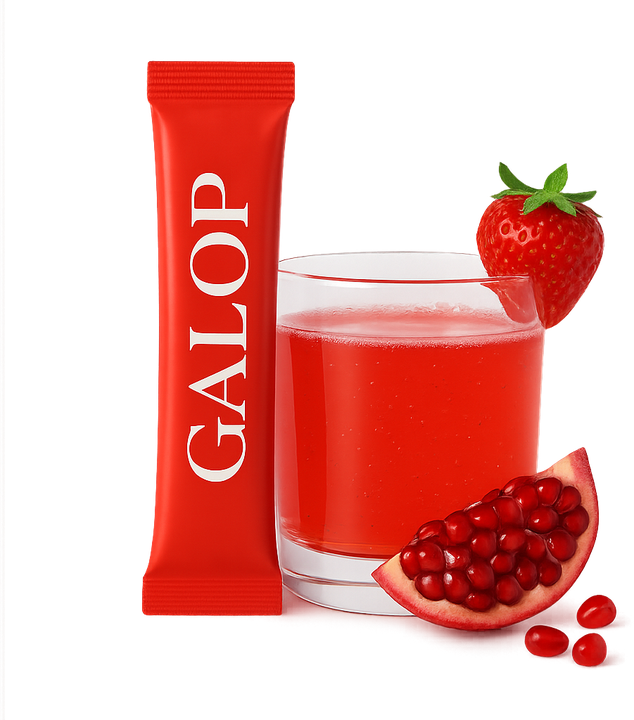
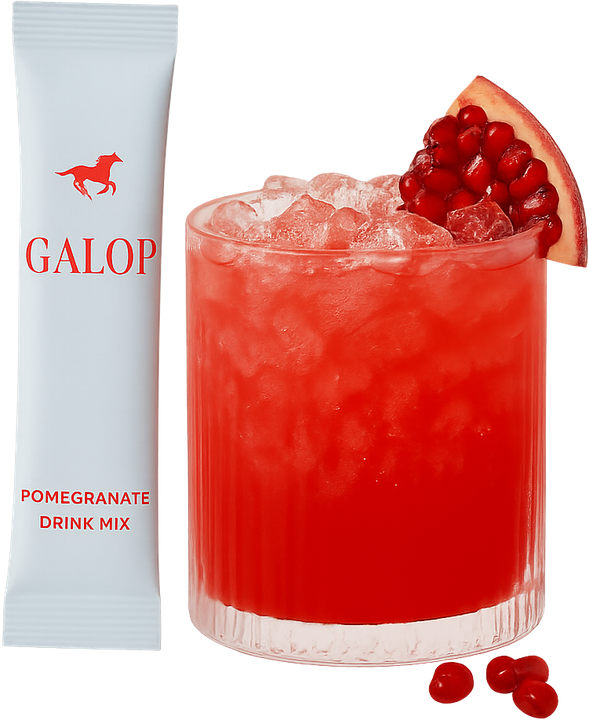
Switch hero to blue-pack pomegranate concept; update founder photo
- Hero image: pale-blue GALOP stick pack (red horse + wordmark,
  'Pomegranate Drink Mix') beside an iced pomegranate drink — no strawberry
- Flavor line: 'Doctor-formulated · Sugar-free · Pomegranate'
- Founder photo: Sydney toasting with the pink drink

diff --git a/src/app/App.tsx b/src/app/App.tsx
@@ -149,7 +149,7 @@ export default function App() {
                }}>
             <img
               src={drinkMixImage}
-              alt="GALOP drink mix stick pack beside a glass of strawberry pomegranate drink"
+              alt="GALOP pomegranate drink mix stick pack beside an iced glass of pomegranate drink"
               className="w-44 sm:w-60 h-auto object-contain"
               style={{
                 filter: 'drop-shadow(0 8px 16px rgba(226, 30, 38, 0.25))',
@@ -187,7 +187,7 @@ export default function App() {
                textTransform: 'uppercase',
                letterSpacing: '0.22em'
              }}>
-            Doctor-formulated <span style={{ margin: '0 0.6em', opacity: 0.7 }}>·</span> Sugar-free <span style={{ margin: '0 0.6em', opacity: 0.7 }}>·</span> Strawberry Pomegranate
+            Doctor-formulated <span style={{ margin: '0 0.6em', opacity: 0.7 }}>·</span> Sugar-free <span style={{ margin: '0 0.6em', opacity: 0.7 }}>·</span> Pomegranate
           </p>
         </div>
 
